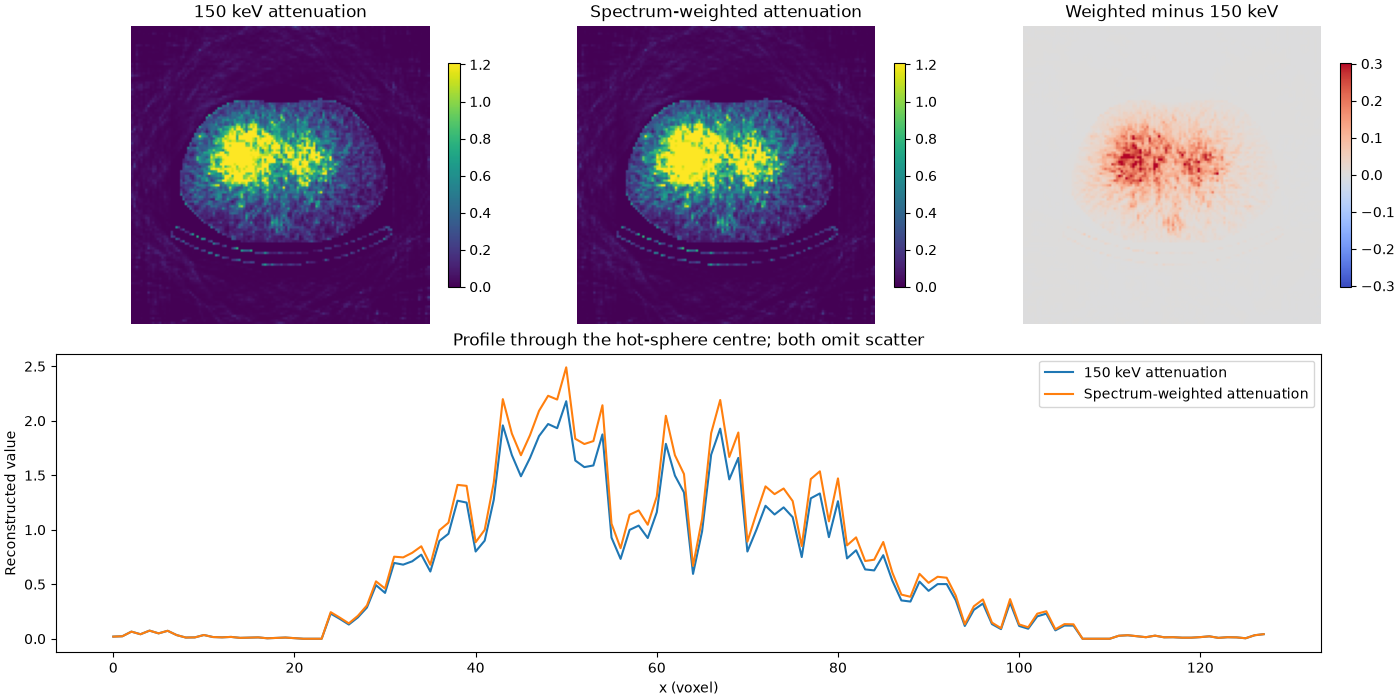
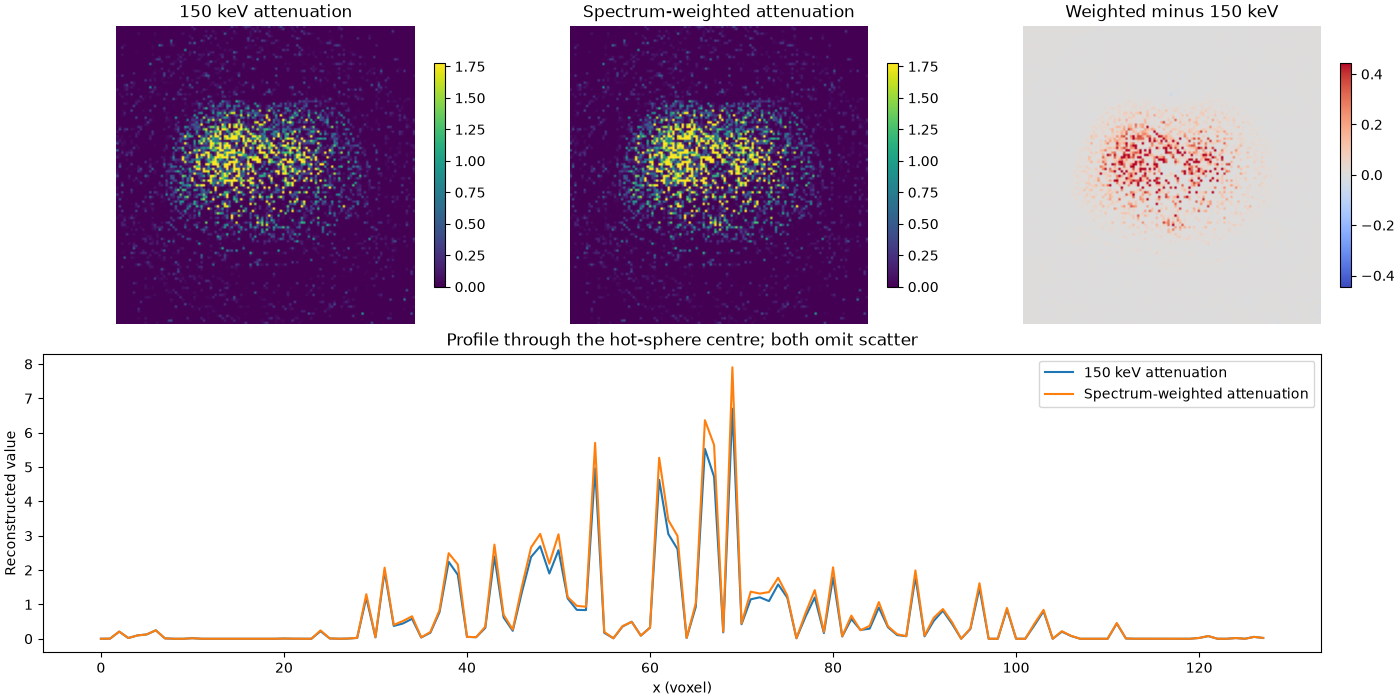
fix: run the R3 reconstruction for twelve full iterations

diff --git a/docs/auto_examples/real_data/plot_17_y90_effective_energy.py b/docs/auto_examples/real_data/plot_17_y90_effective_energy.py
@@ -640,8 +640,17 @@ def spectub_image(template, values):
     return image
 
 
+def subiteration_count(num_iterations, num_subsets):
+    """Return the subiterations needed for the requested full OSEM iterations."""
+    return int(num_iterations) * int(num_subsets)
+
+
 def reconstruct(acquisition, attenuation, initial, num_subsets, num_iterations):
-    """One OSEM reconstruction with a SPECTUB attenuation model and no scatter."""
+    """One OSEM reconstruction with a SPECTUB attenuation model and no scatter.
+
+    ``num_iterations`` counts full iterations; each full iteration runs
+    ``num_subsets`` subiterations.
+    """
     import sirf.STIR as sirf
 
     matrix = sirf.SPECTUBMatrix()
@@ -656,7 +665,7 @@ def reconstruct(acquisition, attenuation, initial, num_subsets, num_iterations):
     reconstructor = sirf.OSMAPOSLReconstructor()
     reconstructor.set_objective_function(objective)
     reconstructor.set_num_subsets(num_subsets)
-    reconstructor.set_num_subiterations(num_iterations)
+    reconstructor.set_num_subiterations(subiteration_count(num_iterations, num_subsets))
     reconstructor.set_input(acquisition)
     image = initial.clone()
     reconstructor.set_up(image)
@@ -1010,6 +1019,7 @@ def run():
         "reconstruction": {
             "subsets": 12,
             "iterations": 12,
+            "subiterations": subiteration_count(12, 12),
             "initial": "unit body support (HU > -400)",
             "additive_scatter": "zero in both",
             "seconds": recon_seconds,

diff --git a/examples/real_data/plot_17_y90_effective_energy.py b/examples/real_data/plot_17_y90_effective_energy.py
@@ -640,8 +640,17 @@ def spectub_image(template, values):
     return image
 
 
+def subiteration_count(num_iterations, num_subsets):
+    """Return the subiterations needed for the requested full OSEM iterations."""
+    return int(num_iterations) * int(num_subsets)
+
+
 def reconstruct(acquisition, attenuation, initial, num_subsets, num_iterations):
-    """One OSEM reconstruction with a SPECTUB attenuation model and no scatter."""
+    """One OSEM reconstruction with a SPECTUB attenuation model and no scatter.
+
+    ``num_iterations`` counts full iterations; each full iteration runs
+    ``num_subsets`` subiterations.
+    """
     import sirf.STIR as sirf
 
     matrix = sirf.SPECTUBMatrix()
@@ -656,7 +665,7 @@ def reconstruct(acquisition, attenuation, initial, num_subsets, num_iterations):
     reconstructor = sirf.OSMAPOSLReconstructor()
     reconstructor.set_objective_function(objective)
     reconstructor.set_num_subsets(num_subsets)
-    reconstructor.set_num_subiterations(num_iterations)
+    reconstructor.set_num_subiterations(subiteration_count(num_iterations, num_subsets))
     reconstructor.set_input(acquisition)
     image = initial.clone()
     reconstructor.set_up(image)
@@ -1010,6 +1019,7 @@ def run():
         "reconstruction": {
             "subsets": 12,
             "iterations": 12,
+            "subiterations": subiteration_count(12, 12),
             "initial": "unit body support (HU > -400)",
             "additive_scatter": "zero in both",
             "seconds": recon_seconds,

diff --git a/tests/test_y90_spectra.py b/tests/test_y90_spectra.py
@@ -212,6 +212,12 @@ def test_weighted_mean_energy_uses_the_channel_weights():
     ) == pytest.approx(175.0)
 
 
+@pytest.mark.unit
+def test_subiteration_count_matches_full_iterations():
+    assert script.subiteration_count(12, 12) == 144
+    assert script.subiteration_count(3, 4) == 12
+
+
 def _y90_data():
     directory = os.environ.get("SIMIND_CONNECTOR_Y90_DATA")
     if not directory or not (Path(directory) / "peak.hs").is_file():

diff --git a/docs/auto_examples/real_data/plot_17_y90_effective_energy.rst b/docs/auto_examples/real_data/plot_17_y90_effective_energy.rst
@@ -729,7 +729,7 @@ agreement checks the record interpretation and the window.
 Weighted attenuation map
 ------------------------
 
-.. GENERATED FROM PYTHON SOURCE LINES 634-667
+.. GENERATED FROM PYTHON SOURCE LINES 634-676
 
 .. code-block:: Python
 
@@ -742,8 +742,17 @@ Weighted attenuation map
         return image
 
 
+    def subiteration_count(num_iterations, num_subsets):
+        """Return the subiterations needed for the requested full OSEM iterations."""
+        return int(num_iterations) * int(num_subsets)
+
+
     def reconstruct(acquisition, attenuation, initial, num_subsets, num_iterations):
-        """One OSEM reconstruction with a SPECTUB attenuation model and no scatter."""
+        """One OSEM reconstruction with a SPECTUB attenuation model and no scatter.
+
+        ``num_iterations`` counts full iterations; each full iteration runs
+        ``num_subsets`` subiterations.
+        """
         import sirf.STIR as sirf
 
         matrix = sirf.SPECTUBMatrix()
@@ -758,7 +767,7 @@ Weighted attenuation map
         reconstructor = sirf.OSMAPOSLReconstructor()
         reconstructor.set_objective_function(objective)
         reconstructor.set_num_subsets(num_subsets)
-        reconstructor.set_num_subiterations(num_iterations)
+        reconstructor.set_num_subiterations(subiteration_count(num_iterations, num_subsets))
         reconstructor.set_input(acquisition)
         image = initial.clone()
         reconstructor.set_up(image)
@@ -773,7 +782,7 @@ Weighted attenuation map
 
 
 
-.. GENERATED FROM PYTHON SOURCE LINES 668-679
+.. GENERATED FROM PYTHON SOURCE LINES 677-688
 
 Paired reconstruction
 ---------------------
@@ -787,7 +796,7 @@ and the support are not mirrored. The two images are not a ranking: neither
 models scatter, and the weighted map is a global approximation of the
 energy-dependent attenuation.
 
-.. GENERATED FROM PYTHON SOURCE LINES 679-707
+.. GENERATED FROM PYTHON SOURCE LINES 688-716
 
 .. code-block:: Python
 
@@ -826,12 +835,12 @@ energy-dependent attenuation.
 
 
 
-.. GENERATED FROM PYTHON SOURCE LINES 708-710
+.. GENERATED FROM PYTHON SOURCE LINES 717-719
 
 Figures
 -------
 
-.. GENERATED FROM PYTHON SOURCE LINES 710-854
+.. GENERATED FROM PYTHON SOURCE LINES 719-863
 
 .. code-block:: Python
 
@@ -986,12 +995,12 @@ Figures
 
 
 
-.. GENERATED FROM PYTHON SOURCE LINES 855-857
+.. GENERATED FROM PYTHON SOURCE LINES 864-866
 
 Run the tutorial
 ----------------
 
-.. GENERATED FROM PYTHON SOURCE LINES 857-1027
+.. GENERATED FROM PYTHON SOURCE LINES 866-1037
 
 .. code-block:: Python
 
@@ -1151,6 +1160,7 @@ Run the tutorial
             "reconstruction": {
                 "subsets": 12,
                 "iterations": 12,
+                "subiterations": subiteration_count(12, 12),
                 "initial": "unit body support (HU > -400)",
                 "additive_scatter": "zero in both",
                 "seconds": recon_seconds,
@@ -1217,13 +1227,13 @@ Run the tutorial
     Running the list-mode spectrum acquisition
     SIMIND command: simind y90_spectrum y90_spectrum /FI:y90/CC:ma-mlegp/PX:0.425780/OU:11
     Spectrum geometry: 24 views, 360 deg, 300 mm circular, 128 x 128 bins of 4.2578 mm, 75-225 keV
-    Spectrum: 21076461 records, energy 0.0 to 2007.6 keV, 11.1 min; detector hits 928078; engine 0 h, 11 m and 6 s
+    Spectrum: 21076461 records, energy 0.0 to 2007.6 keV, 10.6 min; detector hits 928078; engine 0 h, 10 m and 37 s
     Window weight 227115.8; .a00 226897.1; ratio 1.00096; .res count-rate ratio 1.00097
     Weighted mean energy: 125.6 keV; attenuation ratio to 150 keV: median 1.084
     Weighted map difference over the body: mean 0.01373 cm^-1, max 0.04273 cm^-1
     Measured acquisition shape: (1, 128, 120, 128)
-    Paired reconstruction: 2.8 min
-    Total runtime: 14.1 min
+    Paired reconstruction: 18.3 min
+    Total runtime: 29.2 min
     Outputs written to effective_energy
 
 
@@ -1232,7 +1242,7 @@ Run the tutorial
 
 .. rst-class:: sphx-glr-timing
 
-   **Total running time of the script:** (14 minutes 8.289 seconds)
+   **Total running time of the script:** (29 minutes 11.431 seconds)
 
 
 .. _sphx_glr_download_auto_examples_real_data_plot_17_y90_effective_energy.py:

diff --git a/docs/auto_examples/real_data/sg_execution_times.rst b/docs/auto_examples/real_data/sg_execution_times.rst
@@ -6,7 +6,7 @@
 
 Computation times
 =================
-**155:24.283** total execution time for 5 files **from auto_examples/real_data**:
+**170:27.425** total execution time for 5 files **from auto_examples/real_data**:
 
 .. container::
 
@@ -36,7 +36,7 @@ Computation times
      - 134:01.688
      - 0.0
    * - :ref:`sphx_glr_auto_examples_real_data_plot_17_y90_effective_energy.py` (``plot_17_y90_effective_energy.py``)
-     - 14:08.289
+     - 29:11.431
      - 0.0
    * - :ref:`sphx_glr_auto_examples_real_data_plot_16c_pytomography_ct_conversion.py` (``plot_16c_pytomography_ct_conversion.py``)
      - 03:21.164
